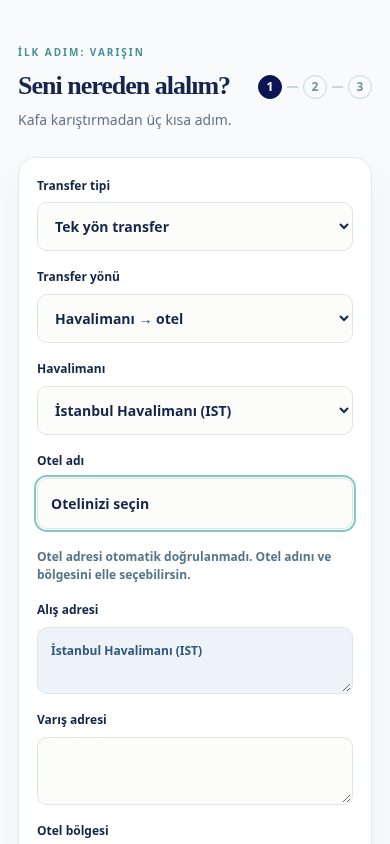
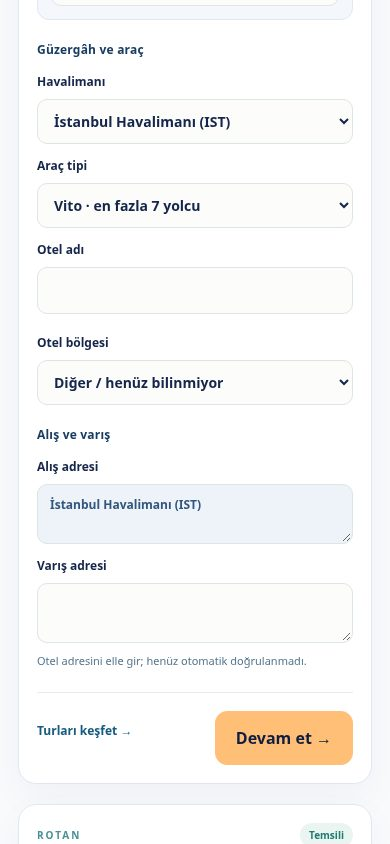
Simplify transfer layout with clear groups and optional map

diff --git a/index.html b/index.html
@@ -16,19 +16,25 @@
 <div class="journey-strip" aria-label="Planning steps"><article><span>01</span><div><h3 data-story="step1Title">Start with your arrival.</h3><p data-story="step1Text">Choose your direction, airport and hotel address. Keep your arrival plan in one place.</p><a href="#booking" data-story="step1Action">Plan a transfer →</a></div></article><article><span>02</span><div><h3 data-story="step2Title">Make the trip your own.</h3><p data-story="step2Text">Browse experiences by interest and check what needs confirmation before deciding.</p><a href="#experiences" data-story="step2Action">Discover experiences →</a></div></article><article><span>03</span><div><h3 data-story="step3Title">Get to know the city.</h3><p data-story="step3Text">Explore the Istanbul map and independent guides before you pack your bags.</p><a href="map.html" data-story="step3Action">Open the city map →</a></div></article></div>
 </section>
 
-  <section class="wrap booking-section" id="booking"><div class="section-heading"><div><span class="eyebrow muted" data-i18n="firstStep">FIRST, YOUR ARRIVAL</span><h2 data-i18n="bookingTitle">Where should we pick you up?</h2><p data-i18n="bookingSub">Three short steps, no confusing forms.</p></div><div class="steps" aria-label="Progress"><span class="active" data-step="1">1</span><i></i><span data-step="2">2</span><i></i><span data-step="3">3</span></div></div>
+  <section class="wrap booking-section" id="booking"><div class="section-heading"><div><span class="eyebrow muted" data-i18n="firstStep">FIRST, YOUR ARRIVAL</span><h2 data-transfer="transferTitle">Plan your transfer</h2><p data-transfer="transferIntro">Your route. Your passengers. Your dates.</p></div><div class="steps" aria-label="Progress"><span class="active" data-step="1">1</span><i></i><span data-step="2">2</span><i></i><span data-step="3">3</span></div></div>
   <div class="booking-layout"><div class="form-panel">
    <form id="reservation-form" novalidate>
-<section class="transfer-step" data-stage="1"><div class="form-grid">
+<section class="transfer-step" data-stage="1">
+<div class="form-grid transfer-options">
 <label class="field"><span data-transfer="tripType">Journey</span><select id="tripType"><option value="oneway" data-transfer="oneway">One way</option><option value="return" data-transfer="return">Round trip</option></select></label>
 <label class="field"><span data-transfer="direction">Transfer direction</span><select id="direction"><option value="airport-hotel" data-transfer="airportHotel">Airport → hotel</option><option value="hotel-airport" data-transfer="hotelAirport">Hotel → airport</option><option value="hotel-region" data-transfer="hotelRegion">Hotel → another area</option></select></label>
+</div>
+<div class="transfer-group"><h3 data-transfer="routeGroup">Route and vehicle</h3><div class="form-grid">
 <label class="field" id="airportField"><span data-transfer="airport">Airport</span><select id="airport"><option value="IST">İstanbul Havalimanı (IST)</option><option value="SAW">Sabiha Gökçen (SAW)</option></select></label>
-<div class="field wide" role="group" aria-labelledby="hotelLabel"><label for="hotel" id="hotelLabel" data-transfer="hotel">Hotel name</label><input id="hotel" maxlength="120" autocomplete="off"><div id="hotelPlacesMount"></div><p class="hotel-verification" id="hotelVerification"></p></div>
-<label class="field wide"><span data-transfer="pickup">Pickup address</span><textarea id="pickupAddress" rows="2" maxlength="300" required></textarea></label>
-<label class="field wide"><span data-transfer="dropoff">Destination address</span><textarea id="dropoffAddress" rows="2" maxlength="300" required></textarea></label>
-<label class="field"><span data-transfer="zone">Hotel area</span><select id="zone"><option value="other" data-transfer="other">Other / unknown</option><option value="sultanahmet">Sultanahmet / Fatih</option><option value="sirkeci">Sirkeci / Eminönü</option><option value="taksim">Taksim / Beyoğlu</option><option value="kadikoy">Kadıköy</option></select></label>
 <label class="field"><span data-transfer="vehicle">Vehicle</span><select id="vehicle"><option value="vito" data-transfer="vito">Vito · up to 7 passengers</option></select></label>
-</div><p class="hint" data-transfer="addressNote">Select a Google hotel result to fill the hotel address. Without Google configuration, enter the full address manually; it remains unverified.</p><div class="form-actions"><a href="#experiences" class="text-action" data-transfer="skip">Explore tours instead →</a><button type="button" class="primary" id="routeNext" data-transfer="next">Continue →</button></div></section>
+<div class="field" role="group" aria-labelledby="hotelLabel"><label for="hotel" id="hotelLabel" data-transfer="hotel">Hotel name</label><input id="hotel" maxlength="120" autocomplete="off"><div id="hotelPlacesMount"></div></div>
+<label class="field"><span data-transfer="zone">Hotel area</span><select id="zone"><option value="other" data-transfer="other">Other / unknown</option><option value="sultanahmet">Sultanahmet / Fatih</option><option value="sirkeci">Sirkeci / Eminönü</option><option value="taksim">Taksim / Beyoğlu</option><option value="kadikoy">Kadıköy</option></select></label>
+</div></div>
+<div class="transfer-group"><h3 data-transfer="addressesGroup">Pickup and destination</h3><div class="form-grid">
+<label class="field"><span data-transfer="pickup">Pickup address</span><textarea id="pickupAddress" rows="2" maxlength="300" required></textarea></label>
+<label class="field"><span data-transfer="dropoff">Destination address</span><textarea id="dropoffAddress" rows="2" maxlength="300" required></textarea></label>
+</div><p class="hotel-verification" id="hotelVerification"></p></div>
+<div class="form-actions"><a href="#experiences" class="text-action" data-transfer="skip">Explore tours instead →</a><button type="button" class="primary" id="routeNext" data-transfer="next">Continue →</button></div></section>
 <section class="transfer-step" data-stage="2" hidden><label class="field"><span data-transfer="passengers">Passenger count</span><select id="passengers"><option>1</option><option>2</option><option>3</option><option>4</option><option>5</option><option>6</option><option>7</option></select></label><p class="hint" data-transfer="localOnly">Details stay in this page only. They are not sent or stored; no reservation is created.</p><div id="passengerRows"></div><div class="form-actions"><button type="button" class="secondary" id="passengersBack" data-transfer="back">← Back</button><button type="button" class="primary" id="passengersNext" data-transfer="next">Continue →</button></div></section>
 <section class="transfer-step" data-stage="3" hidden><div class="form-grid">
 <label class="field"><span data-transfer="date">Transfer date</span><input id="arrivalDate" type="date" required></label><label class="field"><span data-transfer="time">Pickup / arrival time (Istanbul)</span><input id="arrivalTime" type="time" required></label><label class="field wide" id="flightField"><span data-transfer="flight">Flight number</span><input id="flight" maxlength="12" autocomplete="off"></label>
@@ -38,7 +44,7 @@
 <label class="consent"><input id="transferAck" type="checkbox"><span data-transfer="ack">I understand this is a local plan; availability, price and reservation require separate confirmation.</span></label><div class="form-actions"><button type="button" class="secondary" id="tripBack" data-transfer="back">← Back</button><button type="button" class="primary" id="reviewTransfer" data-transfer="review">Review transfer plan</button></div></section>
 </form><div class="result hidden" id="result" role="status" tabindex="-1"></div><p class="form-error hidden" role="alert" id="formError"></p>
 </div>
-   <aside class="route-panel"><div class="route-header"><span class="eyebrow muted" data-i18n="yourRoute">YOUR ROUTE</span><span class="live-pill" data-i18n="illustration">Illustrative</span></div><div class="route-diagram"><img src="assets/maps/istanbul-schematic.svg" alt="Schematic Istanbul map showing both airports and important neighborhoods; not a calculated route" loading="lazy" style="display:block;width:100%;border-radius:18px" /><p style="margin:9px 0 0;color:#59758b;font-size:11px;line-height:1.4">Approximate area overview · Not a live driving route. Hotel-specific directions will require confirmed geocoding.</p><a href="map.html" style="display:inline-block;margin:8px 0 0;color:#155c9b;font-weight:800;font-size:12px">🗺 Explore interactive Istanbul map →</a><div class="route-legend"><div><span class="dot dark"></span><span id="airportRoute">IST</span></div><span class="arrow">→</span><div><span class="dot gold"></span><span id="zoneRoute">Sultanahmet / Fatih</span></div></div></div><div class="fare"><div><span data-i18n="estimate">Fixed one-way transfer price</span><small data-i18n="fareNote">Sultanahmet only · IST €55 / SAW €65</small></div><strong id="price">€55</strong></div><div class="aside-note"><span>🔒</span><p data-i18n="priceDisclosure">Fixed Sultanahmet fare; vehicle capacity, pickup details and service confirmation must still be checked before booking.</p></div></aside></div>
+   <aside class="route-panel"><div class="route-header"><span class="eyebrow muted" data-i18n="yourRoute">YOUR ROUTE</span><span class="live-pill" data-i18n="illustration">Illustrative</span></div><details class="transfer-map"><summary data-transfer="showMap">View Istanbul map</summary><div class="route-diagram"><img src="assets/maps/istanbul-schematic.svg" alt="Schematic Istanbul map showing both airports and important neighborhoods; not a calculated route" loading="lazy" style="display:block;width:100%;border-radius:18px" /><p style="margin:9px 0 0;color:#59758b;font-size:11px;line-height:1.4">Approximate area overview · Not a live driving route. Hotel-specific directions will require confirmed geocoding.</p><a href="map.html" style="display:inline-block;margin:8px 0 0;color:#155c9b;font-weight:800;font-size:12px">🗺 Explore interactive Istanbul map →</a></div></details><div class="route-legend"><div><span class="dot dark"></span><span id="airportRoute">IST</span></div><span class="arrow">→</span><div><span class="dot gold"></span><span id="zoneRoute">Sultanahmet / Fatih</span></div></div><div class="fare"><div><span data-i18n="estimate">Fixed one-way transfer price</span><small data-i18n="fareNote">Sultanahmet only · IST €55 / SAW €65</small></div><strong id="price">€55</strong></div></aside></div>
   </section>
   <section class="experiences" id="experiences"><div class="wrap"><div class="section-heading"><div><span class="eyebrow muted" data-i18n="exploreEyebrow">MAKE THE MOST OF ISTANBUL</span><h2 data-i18n="experiencesTitle">Discover experiences worth remembering.</h2><p data-i18n="supplierNote">Experience concepts managed on Bosphorly. Prices and live availability await supplier contracts.</p></div></div><div class="filters" role="group" aria-label="Experience filter"><button class="filter active" data-filter="all" data-i18n="filterAll">All</button><button class="filter" data-filter="cruise" data-i18n="filterCruises">Cruises</button><button class="filter" data-filter="city" data-i18n="filterCity">City tours</button><button class="filter" data-filter="wellness" data-i18n="filterWellness">Hammam & wellness</button></div><div id="tourGrid" class="tour-grid"></div></div></section>
   <section class="wrap two-cols" id="rewards"><div class="rewards-panel"><span class="eyebrow muted" data-i18n="rewardsEyebrow">THANK YOU FOR EXPLORING</span><h2 data-i18n="rewardsTitle">Every adventure adds up.</h2><p data-i18n="rewardsSub">Earn a stamp after completing an eligible booking. Partner-funded rewards can unlock special experiences or discounts.</p><a class="primary membership-cta" href="membership.html" data-i18n="memberLink">Bosphorly Club</a><div class="stamps" aria-label="Illustrative loyalty card"><span>✦</span><span>✦</span><span>✦</span><span>✦</span><span>✦</span></div><small data-i18n="rewardsDemo">Example loyalty mechanic only — no stamps or benefits are currently issued.</small></div><div class="partner-panel"><span class="eyebrow muted" data-i18n="partnersEyebrow">BUILT FOR LOCAL PARTNERS</span><h2 data-i18n="partnersTitle">One platform. Better collaboration.</h2><p data-i18n="partnersSub">Hotels refer guests by QR code or link, agencies manage products, and commissions are recorded only after verified fulfillment.</p><div class="partner-tags"><span>🏨 Hotel dashboard</span><span>⛵ Agency dashboard</span><span>🧾 Commission ledger</span></div><small data-i18n="future">Partner dashboard is planned, not live.</small></div></section>

diff --git a/transfer.js b/transfer.js
@@ -8,6 +8,10 @@
  ar:{tripType:'نوع الرحلة',oneway:'ذهاب فقط',return:'ذهاب وعودة',direction:'اتجاه النقل',airportHotel:'المطار ← الفندق',hotelAirport:'الفندق ← المطار',hotelRegion:'الفندق ← منطقة أخرى',airport:'المطار',hotel:'اسم الفندق',pickup:'عنوان الانطلاق',dropoff:'عنوان الوصول',zone:'منطقة الفندق',other:'أخرى / غير معروف',vehicle:'المركبة',vito:'Vito · حتى 7 ركاب',addressNote:'اختر اقتراح فندق Google لملء العنوان. دون إعداد Google، أدخل العنوان يدوياً؛ لن يكون موثقاً تلقائياً.',skip:'اكتشف الجولات ←',next:'متابعة ←',back:'رجوع →',passengers:'عدد الركاب · حتى 7',localOnly:'تبقى التفاصيل في الصفحة فقط. لا تُرسل ولا تُحفظ ولا يتم إنشاء حجز.',passenger:'الراكب',nationality:'الجنسية',gender:'الجنس',choose:'اختر',male:'ذكر',female:'أنثى',firstName:'الاسم',lastName:'اسم العائلة',passport:'رقم جواز السفر',date:'تاريخ النقل',time:'وقت الانطلاق / الوصول (إسطنبول)',flight:'رقم الرحلة',returnLeg:'العودة · المسار المعاكس',returnDate:'تاريخ العودة',returnTime:'وقت الانطلاق للعودة (إسطنبول)',returnFlight:'رقم رحلة العودة',driverNote:'ملاحظة للسائق (اختياري)',notePrivacy:'لا تكتب بيانات الهوية أو الجواز أو الاتصال في الملاحظة.',ack:'أفهم أن هذه خطة محلية. التوفر والسعر والحجز تحتاج إلى تأكيد منفصل.',review:'مراجعة خطة النقل',quote:'يحتاج عرض سعر',notBooked:'تمت مراجعة الخطة — لم يتم الحجز. لم تُرسل أو تُحفظ تفاصيل الركاب.',invalid:'أكمل الحقول المطلوبة. الحد 7 ركاب ويجب أن تكون مواعيد العودة صحيحة.',clubTitle:'المزيد من إسطنبول مع العضوية.',clubText:'اكتشف الخصم المخطط بنسبة 10% لأعضاء الهاتف. العرض مسودة؛ لم تُعتمد المواعيد والخدمات والحدود.',clubJoin:'اكتشف العضوية ←',clubLater:'متابعة الاستكشاف',close:'إغلاق',priceTitle:'السعر لاتجاه واحد من المطار إلى السلطان أحمد فقط. بقية الاتجاهات والعودة تحتاج عرض سعر.'},
  ru:{tripType:'Тип поездки',oneway:'В одну сторону',return:'Туда и обратно',direction:'Направление',airportHotel:'Аэропорт → отель',hotelAirport:'Отель → аэропорт',hotelRegion:'Отель → другой район',airport:'Аэропорт',hotel:'Название отеля',pickup:'Адрес подачи',dropoff:'Адрес назначения',zone:'Район отеля',other:'Другой / неизвестно',vehicle:'Автомобиль',vito:'Vito · до 7 пассажиров',addressNote:'Выберите отель в Google для заполнения адреса. Без настройки Google адрес вводится вручную и не считается проверенным.',skip:'Смотреть экскурсии →',next:'Далее →',back:'← Назад',passengers:'Пассажиры · максимум 7',localOnly:'Данные остаются только на странице. Они не отправляются и не сохраняются; бронь не создаётся.',passenger:'Пассажир',nationality:'Гражданство',gender:'Пол',choose:'Выберите',male:'Мужской',female:'Женский',firstName:'Имя',lastName:'Фамилия',passport:'Номер паспорта',date:'Дата трансфера',time:'Время подачи / прилёта (Стамбул)',flight:'Номер рейса',returnLeg:'Обратно · обратный маршрут',returnDate:'Дата возвращения',returnTime:'Время подачи обратно (Стамбул)',returnFlight:'Обратный рейс',driverNote:'Примечание водителю (необязательно)',notePrivacy:'Не указывайте паспортные, личные или контактные данные в примечании.',ack:'Это локальный план; наличие, цена и бронь требуют отдельного подтверждения.',review:'Проверить план трансфера',quote:'Нужен расчёт цены',notBooked:'План проверен — БРОНЬ НЕ СОЗДАНА. Данные не отправлены и не сохранены.',invalid:'Заполните обязательные поля. Vito вмещает до 7 пассажиров. Проверьте даты и время возврата.',clubTitle:'Больше Стамбула с членством.',clubText:'Узнайте о планируемой мобильной скидке 10%. Акция пока проект; даты, услуги и лимиты не утверждены.',clubJoin:'Узнать о членстве →',clubLater:'Продолжить просмотр',close:'Закрыть',priceTitle:'Цена только в одну сторону: аэропорт → Султанахмет. Другие направления и обратная поездка требуют расчёта.'}
  };
+ Object.assign(strings.en,{transferTitle:'Plan your transfer',transferIntro:'Your route. Your passengers. Your dates.',routeGroup:'Route and vehicle',addressesGroup:'Pickup and destination',showMap:'View Istanbul map',fareLabel:'Transfer fare'});
+ Object.assign(strings.tr,{transferTitle:'Transferini planla',transferIntro:'Önce rota, sonra yolcular ve tarih.',routeGroup:'Güzergâh ve araç',addressesGroup:'Alış ve varış',showMap:'İstanbul haritasını göster',fareLabel:'Transfer ücreti'});
+ Object.assign(strings.ar,{transferTitle:'خطط للنقل',transferIntro:'المسار، ثم الركاب والمواعيد.',routeGroup:'المسار والمركبة',addressesGroup:'الانطلاق والوصول',showMap:'عرض خريطة إسطنبول',fareLabel:'سعر النقل'});
+ Object.assign(strings.ru,{transferTitle:'Спланируйте трансфер',transferIntro:'Маршрут, пассажиры и даты.',routeGroup:'Маршрут и автомобиль',addressesGroup:'Подача и назначение',showMap:'Показать карту Стамбула',fareLabel:'Стоимость трансфера'});
  const lang=()=>document.documentElement.lang||'en',t=k=>strings[lang()]?.[k]||strings.en[k];
  let stage=1,codes=[],rates=[],hotelAddress='',regionalAddress='';
  let lastDirection=$('direction').value;
@@ -17,15 +21,15 @@
  function renderPassengers(){const n=Number($('passengers').value);if(!Number.isInteger(n)||n<1||n>7)return;
  const rows=$('passengerRows');while(rows.children.length>n)rows.lastElementChild.remove();
  while(rows.children.length<n){const index=rows.children.length+1;const f=document.createElement('fieldset');f.className='passenger-row';const legend=document.createElement('legend');legend.dataset.passenger=index;f.append(legend);const grid=document.createElement('div');grid.className='form-grid';
- for(const key of ['nationality','gender','passport','firstName','lastName']){const input=document.createElement(['nationality','gender'].includes(key)?'select':'input');input.dataset.field=key;input.required=true;input.id='passenger-'+index+'-'+key;
+ for(const key of ['firstName','lastName','nationality','gender','passport']){const input=document.createElement(['nationality','gender'].includes(key)?'select':'input');input.dataset.field=key;input.required=true;input.id='passenger-'+index+'-'+key;
  if(key==='nationality')countryOptions(input);
  else if(key==='gender'){for(const value of ['','male','female']){const op=new Option(t(value||'choose'),value);op.dataset.transfer=value||'choose';input.add(op);}}
  else{input.type='text';input.maxLength=key==='passport'?24:100;input.autocomplete='off';input.spellcheck=false;}
- grid.append(label(key,input));}f.append(grid);rows.append(f);}
+ const field=label(key,input);if(key==='passport')field.classList.add('wide');grid.append(field);}f.append(grid);rows.append(f);}
  document.querySelectorAll('[data-passenger]').forEach(e=>e.textContent=t('passenger')+' '+e.dataset.passenger);
  }
  function clearResult(){$('result').classList.add('hidden');$('formError').classList.add('hidden');}
- function quote(){const forward=$('direction').value==='airport-hotel'&&$('tripType').value==='oneway';const row=forward&&rates.find(r=>r.airport===$('airport').value&&r.zone===$('zone').value&&r.approved_as_customer_fare===true&&r.fare_kind==='fixed_one_way');$('price').textContent=row?new Intl.NumberFormat(lang(),{style:'currency',currency:'EUR',maximumFractionDigits:0}).format(row.price_eur):t('quote');$('price').title=t('priceTitle');const label=document.querySelector('[data-i18n=estimate]');if(label)label.textContent=row?(lang()==='tr'?'Tek yön havalimanı → Sultanahmet':'One way airport → Sultanahmet'):t('quote');document.querySelector('[data-i18n=fareNote]').textContent=t('priceTitle');}
+ function quote(){const forward=$('direction').value==='airport-hotel'&&$('tripType').value==='oneway';const row=forward&&rates.find(r=>r.airport===$('airport').value&&r.zone===$('zone').value&&r.approved_as_customer_fare===true&&r.fare_kind==='fixed_one_way');$('price').textContent=row?new Intl.NumberFormat(lang(),{style:'currency',currency:'EUR',maximumFractionDigits:0}).format(row.price_eur):t('quote');$('price').title=t('priceTitle');const label=document.querySelector('[data-i18n=estimate]');if(label)label.textContent=t('fareLabel');document.querySelector('[data-i18n=fareNote]').textContent=t('priceTitle');}
  function route(){const d=$('direction').value;const airport=$('airport').selectedOptions[0].textContent;$('airportField').hidden=d==='hotel-region';$('pickupAddress').readOnly=d==='airport-hotel';$('dropoffAddress').readOnly=d==='hotel-airport';$('pickupAddress').value=d==='airport-hotel'?airport:hotelAddress;$('dropoffAddress').value=d==='airport-hotel'?hotelAddress:d==='hotel-airport'?airport:regionalAddress;
  $('flightField').hidden=d==='hotel-region';$('flight').required=d!=='hotel-region';$('flight').disabled=d==='hotel-region';const round=$('tripType').value==='return';$('returnLeg').hidden=!round;
  for(const id of ['returnDate','returnTime']){$(id).required=round;$(id).disabled=!round;}

diff --git a/transfer.css b/transfer.css
@@ -1,3 +1,6 @@
 [hidden]{display:none!important}.transfer-step .field textarea{width:100%;min-width:0;padding:13px;border:1px solid #dce6e3;border-radius:10px;resize:vertical;font:inherit;color:var(--ink);background:#fcfdfa}.transfer-step .field{min-width:0}.transfer-step input,.transfer-step select{min-width:0;width:100%}.transfer-step textarea:read-only{background:#eef3f9;color:#32567e}.transfer-step fieldset{min-width:0;margin:22px 0;padding:18px;border:1px solid #dce6ef;border-radius:14px}.transfer-step legend{font-weight:750;padding-inline:7px}.passenger-row{margin-top:18px!important}.passenger-row .form-grid{gap:12px}.passenger-row label{font-size:11px}.passenger-row input,.passenger-row select{font-size:13px}.transfer-step .secondary{padding:12px 20px;border:1px solid #dce6ef;border-radius:10px;background:white;color:#164a76}.route-panel #price{font-size:23px}.route-legend>div{min-width:0;overflow-wrap:anywhere}.route-legend{align-items:flex-start}#returnRoute{font-size:13px;overflow-wrap:anywhere}.booking-layout{align-items:start}#clubWelcome{border:1px solid #dbe7f5;border-radius:24px;padding:38px;max-width:440px;width:calc(100% - 32px);background:linear-gradient(145deg,#0b1553,#1c4676);color:#fff;box-shadow:0 28px 100px #06103255}#clubWelcome::backdrop{background:#08132d99;backdrop-filter:blur(4px)}#clubWelcome h2{font-family:Georgia,serif;font-size:32px;line-height:1.2;margin:12px 0}#clubWelcome p{font-size:14px;color:#d5e2f3;line-height:1.8}.club-badge{font-size:10px;letter-spacing:2px;color:#8de2e7}.club-percent{display:block;font-size:76px;line-height:1.1;color:#ffbf76;margin-top:22px}#dismissClub{position:absolute;inset-inline-end:16px;top:10px;background:none;border:0;color:white;font-size:28px;padding:6px;cursor:pointer}#clubJoin{display:block;text-align:center;margin-top:24px}#clubLater{display:block;background:none;border:0;color:#d9e8fb;text-decoration:underline;margin:18px auto 0;padding:8px;cursor:pointer;font:inherit;font-size:13px}#clubWelcome :focus-visible{outline:3px solid #84e5e8;outline-offset:3px}@media(max-width:560px){.passenger-row .form-grid{grid-template-columns:1fr}.transfer-step fieldset{padding:14px}#clubWelcome{padding:30px 24px}.route-panel #price{font-size:22px}}
 /* Quote-required labels can be wider than numeric fares in translated layouts. */
 .fare{flex-wrap:wrap;align-items:flex-start}.fare>div{min-width:0;flex:1 1 140px}.fare>strong{white-space:normal;overflow-wrap:anywhere;max-width:100%;flex:0 1 auto}
+/* Compact route planning: two clear groups, optional map, one fare label. */
+.transfer-options{padding:16px;border:1px solid #e0e8f2;border-radius:12px;background:#f4f7fb}.transfer-group{margin-top:22px}.transfer-group h3{font-size:13px;letter-spacing:.2px;color:#183c62;margin:0 0 13px}.transfer-group .hotel-verification{font-size:11px;font-weight:400;margin:10px 0 0}.transfer-step .form-grid{gap:13px 16px}.transfer-step .field input,.transfer-step .field select{padding:11px 12px;min-height:44px}.transfer-step .field textarea{padding:11px 12px;line-height:1.5}.transfer-step .form-actions{border-top:1px solid #e5ebf3;padding-top:18px;margin-top:22px}.transfer-map{margin-top:18px;border-bottom:1px solid #e2e9f2;padding-bottom:15px}.transfer-map summary{cursor:pointer;font-size:12px;font-weight:700;color:#1b5a7f}.transfer-map .route-diagram{margin-top:14px}.route-panel .route-legend{margin:16px 0 0;display:grid;grid-template-columns:1fr;gap:8px;padding:0 0 17px}.route-panel .route-legend .arrow{display:none}.route-panel .fare{gap:12px;padding-top:18px}.route-panel .fare>div{flex:1 1 100%}.route-panel .fare small{font-size:11px;line-height:1.7;max-width:330px}.route-panel #price{font-size:25px}.passenger-row .field.wide{grid-column:1/-1}@media(min-width:851px){#booking .route-panel{position:sticky;top:22px}}@media(max-width:560px){.transfer-options{padding:13px}.transfer-group{margin-top:20px}.transfer-step .form-grid{gap:12px}.transfer-group h3{font-size:12px}.route-panel #price{font-size:22px}}
+.route-panel .fare>div{display:contents}.route-panel .fare span{order:0;flex-basis:100%}.route-panel .fare strong{order:1}.route-panel .fare small{order:2;flex-basis:100%}

diff --git a/tests/mobile/transfer.spec.js b/tests/mobile/transfer.spec.js
@@ -3,6 +3,8 @@ async function open(page){await page.goto('/?lang=tr');await expect(page.locator
 test('direction, addresses, Vito rows and return dates work without sending PII',async({page})=>{
  const writes=[];page.on('request',r=>{if(r.method()!=='GET')writes.push(r.url());});
  await open(page);
+ await expect(page.locator('.transfer-map')).not.toHaveAttribute('open','');
+ await page.locator('.transfer-map summary').click();await expect(page.locator('.transfer-map img')).toBeVisible();await page.locator('.transfer-map summary').click();
  await expect(page.locator('#pickupAddress')).toHaveValue('İstanbul Havalimanı (IST)');await expect(page.locator('#pickupAddress')).toHaveAttribute('readonly','');
  await page.locator('#airport').selectOption('SAW');await expect(page.locator('#pickupAddress')).toHaveValue('Sabiha Gökçen (SAW)');
  await page.locator('#hotel').fill('Synthetic Hotel');await page.locator('#dropoffAddress').fill('Synthetic street, Istanbul');

diff --git a/hotel-lookup.js b/hotel-lookup.js
@@ -17,8 +17,8 @@
     info.dataset.verified=ok?'yes':'no';
   };
   const manualNotice=()=>setInfo(tr()?
-    'Otel adresi otomatik doğrulanmadı. Otel adını ve bölgesini elle seçebilirsin.':
-    'Hotel address is not verified automatically. You may enter the hotel and select its area manually.');
+    'Otel adresini elle gir; henüz otomatik doğrulanmadı.':
+    'Enter the hotel address manually; it is not automatically verified.');
   function zoneFromLocation(address=''){
     const normalized=address.toLocaleLowerCase('tr-TR');
     if(/sultanahmet|cankurtaran|binbirdirek|kucuk ayasofya|küçük ayasofya|ale mdar|alemd ar/.test(normalized))return 'sultanahmet';

diff --git a/docs/TRANSFER_FLOW.md b/docs/TRANSFER_FLOW.md
@@ -60,3 +60,13 @@ supported. Automated browser checks now include desktop width 1440 alongside
 360/390/768. Tests cover capacity, route reversal, return chronology, Google
 fixture population/invalidation, modal dismissal, form validation and no PII
 submission. `npm test` and `npm run test:mobile` must pass before delivery.
+
+## Compact layout
+
+The route stage groups journey choices, route/vehicle and pickup/destination
+addresses. Hotel and area share a row on desktop; addresses sit side by side.
+The map is preserved in an optional disclosure, while route endpoints and a
+single fare label remain visible. Passenger rows begin with first/last name.
+Duplicate address and fare notices are removed; quote scope and unverified
+manual-address status remain visible. Capacity, directions and validation are
+unchanged.
